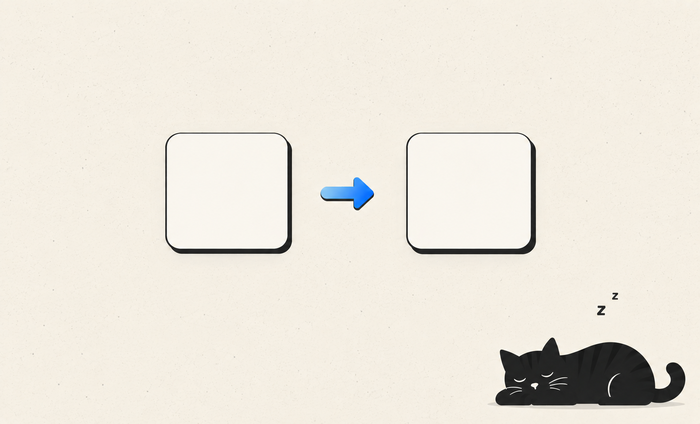
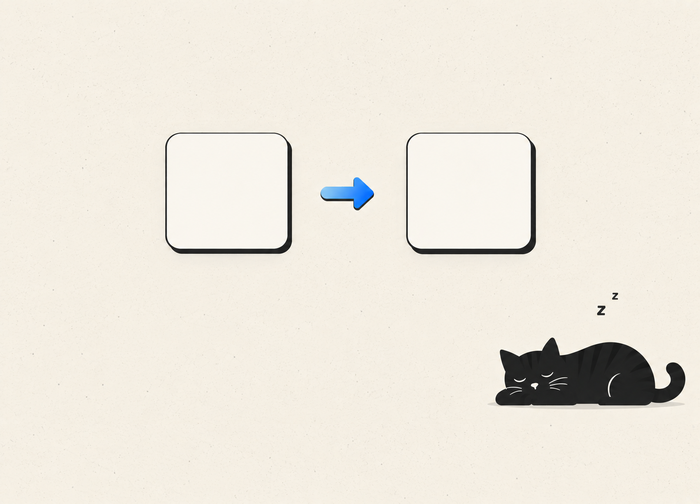
Open the DMG window taller with extra paper below the art
Finder can show a tab bar and status/path bar regardless of the DS_Store
view settings, which pushed the sleeping cat below the visible area. Pad
the art with 80pt of continued paper texture and open the window at 504pt
so the illustration stays fully visible with that chrome, and shows paper
rather than Finder's default white without it.

diff --git a/scripts/build_release_dmg.py b/scripts/build_release_dmg.py
@@ -30,12 +30,16 @@ from textwrap import dedent
 
 
 # Finder window dimensions use point-sized coordinates. The committed background art is a
-# 700x424 point illustration exported at 1x and @2x (assets/release/dmg_background*.png).
+# 700x424 point illustration plus 80pt of extra paper along the bottom, exported at 1x and
+# @2x (assets/release/dmg_background*.png). The padding exists because Finder may show a
+# tab bar and status/path bar regardless of the settings below, and those eat content
+# height: the window opens tall enough that the cat stays visible with that chrome, and
+# without it the extra rows just show more paper instead of Finder's default white.
 # The icon locations are the centers of the two "drop zone" cards drawn in that art, so
 # re-measure them whenever the illustration changes: the icon is centered a little above
 # each card's midpoint so that the icon plus its label sit visually centered together.
 WINDOW_WIDTH = 700
-WINDOW_HEIGHT = 424
+WINDOW_HEIGHT = 504
 # dmgbuild stores window_rect as Finder's full window frame, title bar included, while the
 # background is drawn in the content area below it. Without this padding the bottom 28pt of
 # the art (where the cat sleeps) is clipped until the user resizes the window.
